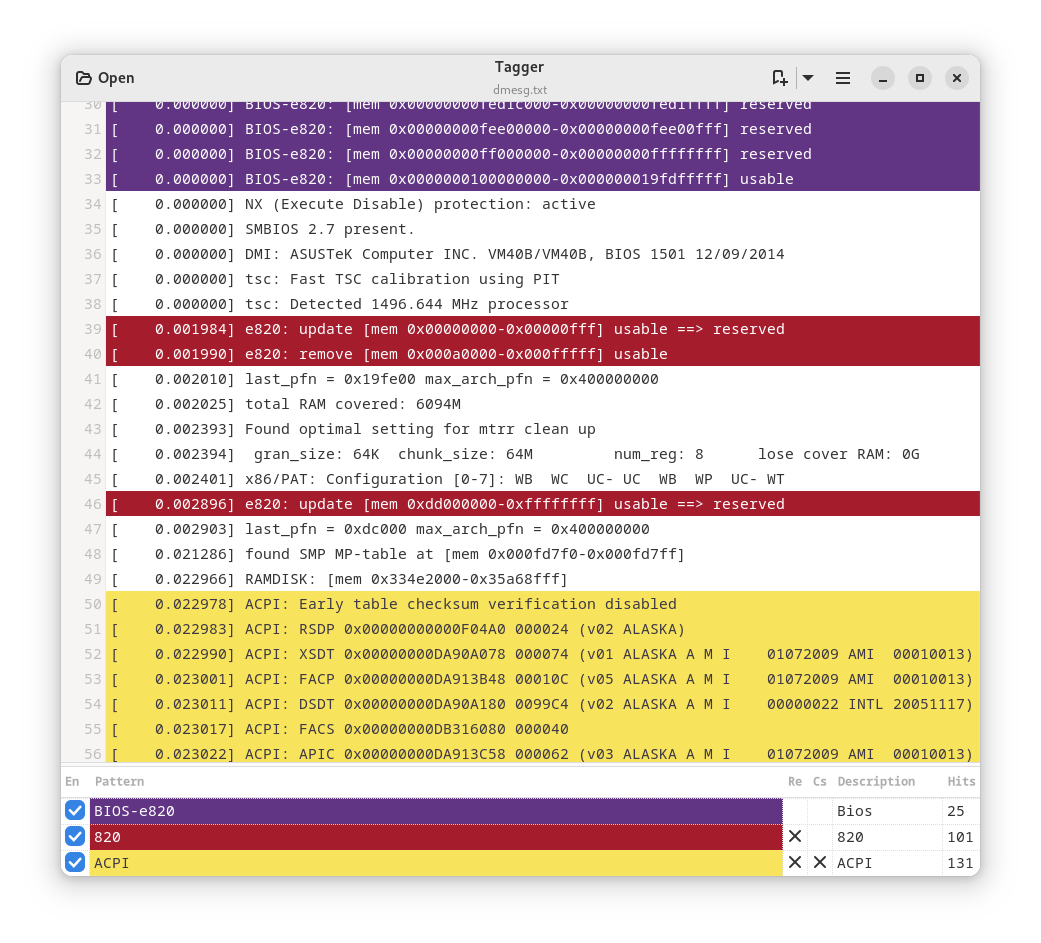
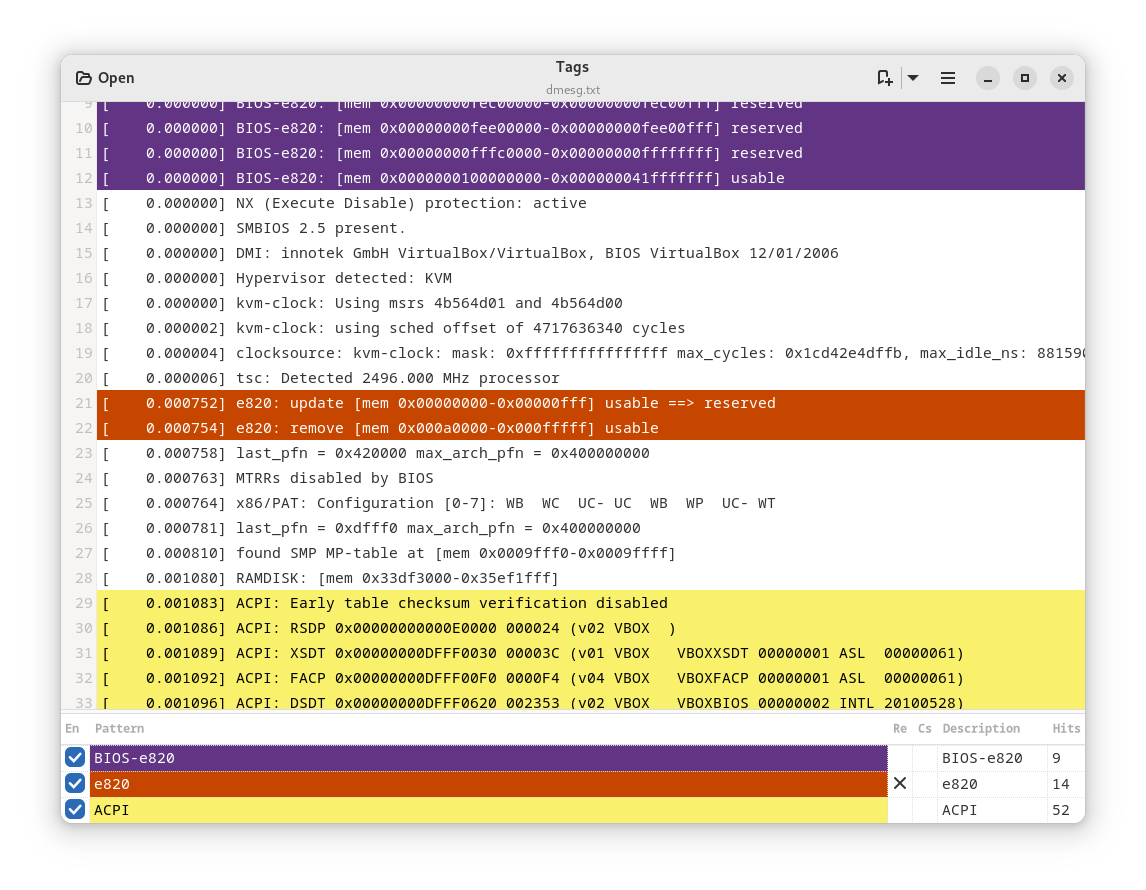
more tweaks, new screenshot and related changes to app rename. bump to 0.9.40

diff --git a/README.md b/README.md
@@ -1,4 +1,4 @@
-# Tagger [![build](https://app.travis-ci.com/phastmike/tagger.svg?branch=master)](https://app.travis-ci.com/github/phastmike/tagger)
+# Tags
 
 A GNOME text tagger inspired by the [TextAnalysisTool.NET](https://textanalysistool.github.io/)
 tool.
@@ -8,7 +8,7 @@ Tags have a description name, a visibility toggle, a color scheme and a hit coun
 
 ## Screenshot
 
-![tagger](./data/screenshots/tagger_3.png)
+![tagger](./data/screenshots/tags.png)
 
 ## Actions and Shortchuts
 
@@ -85,7 +85,7 @@ Install with:
 
 Then, test it with:
 
-`$ tagger`
+`$ tags`
 
 
 ---
